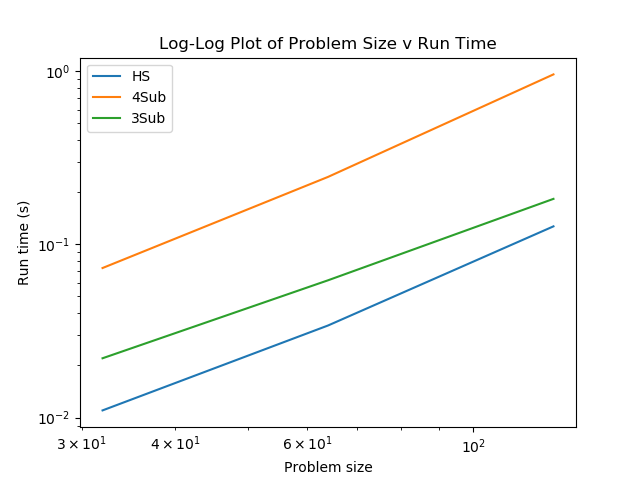
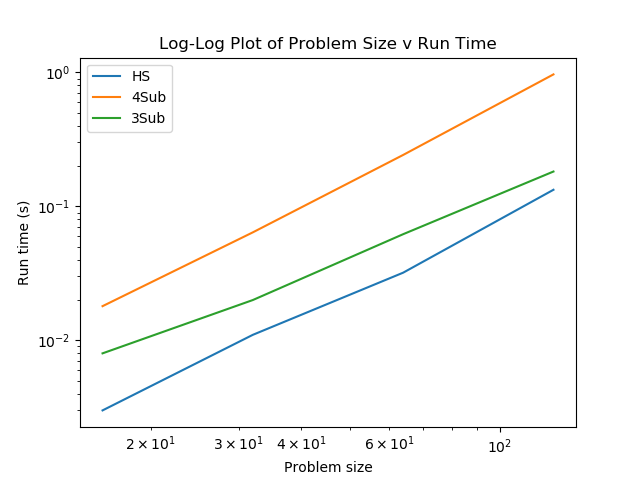
finished assignment with analysis included

diff --git a/src/PolyMult3Sub.py b/src/PolyMult3Sub.py
@@ -82,7 +82,6 @@ def loglogPlot3(x, y1, y2, y3):
     plt.title("Log-Log Plot of Problem Size v Run Time")
     plt.legend()
     plt.savefig("loglog.png")
-    plt.show()
     # Using numpy.polyfit to find slope and intercept of loglog graphs
     degree = 1
     slopeHS, interceptHS = np.polyfit(np.log(x), np.log(y1), degree)
@@ -93,6 +92,7 @@ def loglogPlot3(x, y1, y2, y3):
 
 def main():
     # Testing the 3 sub problem algorithm
+    print("Checking the values of a small problem using the 3 sub problem algo:")
     P = [2, 1, 1, 0]
     Q = [3, 1, 1, 0]
     PQ = PMDivConq3Sub(P, Q, len(P))
@@ -103,7 +103,8 @@ def main():
     print()
     print()
 
-    # Testing the 3 sub problem against 4 sub problem
+    # Testing the 3 sub problem against high school
+    print("Checking that 3 sub gives same output as high school:")
     n = 2**randint(1, 4)
     P = []
     Q = []
@@ -125,10 +126,12 @@ def main():
             print(" + ", end="")
     print()
     print()
+    print()
+    print()
 
     # Generating a problem and timing the three algorithms
-    n = 2**5
-    maxN = 2**7
+    n = 2**4
+    maxN = 2**12
     nCount = np.zeros(maxN+1)
     runtimeHS = np.zeros(maxN+1)
     rtHSBunch = []
@@ -170,12 +173,25 @@ def main():
 
     slopeHS, interceptHS, slope4S, intercept4S, slope3S, intercept3S = loglogPlot3(nBunch, rtHSBunch, rt4SBunch, rt3SBunch)
 
-    print(f"High School Equation: log(runtime) = {slopeHS}*log(n) + log({interceptHS})")
+    print(f"High School Equation:\nlog(runtime) = {slopeHS}*log(n) + log({interceptHS})")
+    print(f"4 Sub Problem Equation:\nlog(runtime) = {slope4S}*log(n) + log({intercept4S})")
+    print(f"3 Sub Problem Equation:\nlog(runtime) = {slope3S}*log(n) + log({intercept3S})")
     print()
-    print(f"4 Sub Problem Equation: log(runtime) = {slope4S}*log(n) + log({intercept4S})")
-    print()
-    print(f"3 Sub Problem Equation: log(runtime) = {slope3S}*log(n) + log({intercept3S})")
-    print()
+
+    # Finding where 3 Sub becomes faster than HS
+    # When does slopeHS*x + interceptHS = slope3S*x + intercept3S ?
+    # (slopeHS - slope3S)*x = intercept3S - interceptHS
+    # x = (intercept3S - interceptHS) / (slopeHS - slope3S)
+    HS3Scross = abs((intercept3S - interceptHS) / (slopeHS - slope3S))
+    print(f"3 Sub Problem becomes faster than HS\n at log(n) ~= {HS3Scross}")
+    cross4S3S = abs((intercept3S - intercept4S) / (slope4S - slope3S))
+    print(f"3 Sub Problem becomes faster than 4 Sub Problem\n at log(n) ~= {cross4S3S}")
+
+    # Calculating difference of the intercepts compared to the high school algo
+    diffHS3S = interceptHS - intercept3S
+    print(f"c multiplier of 3 sub problem compared to high school = {diffHS3S}")
+    diffHS4S = interceptHS - intercept4S
+    print(f"c multiplier of 4 sub problem compared to high school = {diffHS4S}")
 
 
 main()

diff --git a/doc/Analysis.md b/doc/Analysis.md
@@ -1,0 +1,16 @@
+# Analysis
+The output graph is located in the main folder as `loglog.png`.
+According to the output given to the console from running the program, 
+the slopes match our mathematical analysis of the algos. The 3 sub 
+problem slope has been smaller than the 4 sub problem and high school 
+algorithms for the test cases used to date.
+
+According to the slopes and intercepts calculated from the program, 
+the 3 sub problem seems to become faster than the 4 sub problem algo 
+almost immediately and faster than the high school algo at about 
+log(n) = 6 (approx. n = 403).
+
+The difference between the intercepts of the algorithms' polynomial fits
+give us the "overhead" needed to run the 4 and 3 sub problems compared 
+to the high school algorithm, which needs little overhead in comparison.
+The "overhead" needed for the 3 and 4 sub problems are given in the console output.

diff --git a/doc/Plan.md b/doc/Plan.md
@@ -40,3 +40,8 @@ math into code for the 3 sub problem algo.
 
 
 # Test Cases
+
+I tested a small problem (given as output in the main function).
+
+I also tested larger problems with the 3 sub against high school to 
+check that they matched (given as output in the main function).
